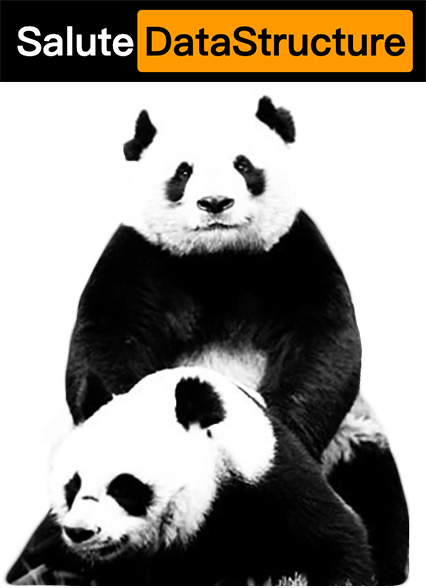
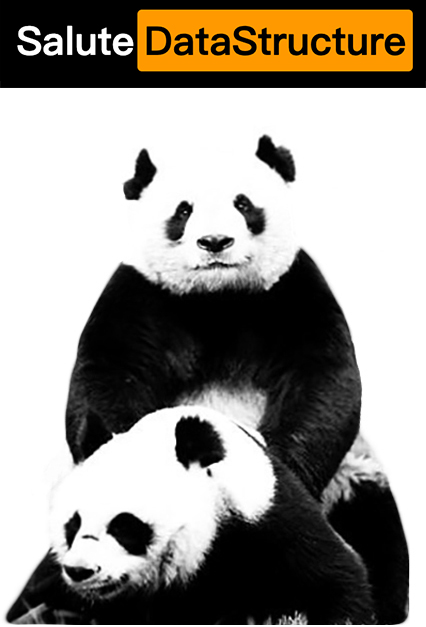
init

diff --git a/docs/index.html b/docs/index.html
@@ -2,11 +2,11 @@
 <html lang="en">
 <head>
   <meta charset="UTF-8">
-  <title>Salute_DeepLearning</title>
+  <title>Salute_DataStructure</title>
   <meta http-equiv="X-UA-Compatible" content="IE=edge,chrome=1" />
   <meta name="description" content="Description">
   <meta name="viewport" content="width=device-width, initial-scale=1.0, minimum-scale=1.0">
-  <link rel="icon" href="https://raw.githubusercontent.com/sanmaomashi/Salute_DeepLearning/main/img/0.jpg" sizes="16x16">
+  <link rel="icon" href="https://raw.githubusercontent.com/sanmaomashi/Salute_DataStructure/main/img/0.jpg" sizes="16x16">
   <link rel="stylesheet" href="//cdn.jsdelivr.net/npm/docsify@4.13.0/lib/themes/vue.css">
   <!--  导航栏css  -->
   <link rel="stylesheet" href="https://unpkg.com/docsify-toc@1.0.0/dist/toc.css">
@@ -18,8 +18,8 @@
   <div id="app">Loading...</div>
   <script>
     window.$docsify = {
-      name: 'Salute_DeepLearning',
-      repo: 'https://github.com/sanmaomashi/Salute_DeepLearning',
+      name: 'Salute_DataStructure',
+      repo: 'https://github.com/sanmaomashi/Salute_DataStructure',
       // 自定义侧边栏
       loadSidebar: true,
       subMaxLevel: 3,

diff --git a/README.md b/README.md
@@ -1,9 +1,9 @@
 <div align="center">
-  <a href="https://github.com/sanmaomashi/Salute_DL">
-    <img src="https://raw.githubusercontent.com/sanmaomashi/Salute_DeepLearning/main/img/1.jpg" height="400">
+  <a href="https://github.com/sanmaomashi/Salute_DataStructure">
+    <img src="https://raw.githubusercontent.com/sanmaomashi/Salute_DataStructure/main/img/1.jpg" height="400">
   </a>
-  <h1>DeepLearning - Beginner Runaway | 🚴♂</h1>
-  <img src="https://img.shields.io/github/repo-size/sanmaomashi/Salute_DeepLearning.svg?label=Repo%20size&style=flat-square" height="20">
+  <h1>DataStructure - Beginner Runaway | 🚴♂</h1>
+  <img src="https://img.shields.io/github/repo-size/sanmaomashi/Salute_DataStructure.svg?label=Repo%20size&style=flat-square" height="20">
   <img src="https://img.shields.io/badge/License-Apache%202.0-purple" data-origin="https://img.shields.io/badge/License-Apache%202.0-blue" alt="">
 </div>
 
@@ -12,7 +12,7 @@
 
 ## 简介
 
-Deep Learning 从入门到跑路
+数据结构 从入门到跑路
 
 
 
@@ -28,11 +28,11 @@ Deep Learning 从入门到跑路
 
 ## 在线阅读
 
-- https://sanmaomashi.github.io/Salute_DeepLearning/
+- https://sanmaomashi.github.io/Salute_DataStructure/
 
 
 
 ## License
 
-Licensed under the [Apache-2.0](http://choosealicense.com/licenses/apache/) © Salute_DeepLearning
+Licensed under the [Apache-2.0](http://choosealicense.com/licenses/apache/) © Salute_DataStructure
 

diff --git a/docs/_coverpage.md b/docs/_coverpage.md
@@ -1,12 +1,12 @@
-<img src="https://raw.githubusercontent.com/sanmaomashi/Salute_DeepLearning/main/img/1.jpg" width = "250" alt="Salute_DeepLearning" align=center />
+<img src="https://raw.githubusercontent.com/sanmaomashi/Salute_DataStructure/main/img/1.jpg" width = "250" alt="Salute_DataStructure" align=center />
 
-<h1><B>Deep Learning - 从入门到跑路 | 🚴♂ </B></h1>
+<h1><B>Databases - 从入门到跑路 | 🚴♂ </B></h1>
 
-<img src="https://img.shields.io/github/repo-size/sanmaomashi/Salute_DeepLearning.svg?label=Repo%20size&style=flat-square" height="20">
+<img src="https://img.shields.io/github/repo-size/sanmaomashi/Salute_DataStructure.svg?label=Repo%20size&style=flat-square" height="20">
 <img src="https://img.shields.io/badge/License-Apache%202.0-purple" data-origin="https://img.shields.io/badge/License-Apache%202.0-blue" alt="">
 
 
-[GitHub](https://github.com/sanmaomashi/Salute_DeepLearning)
+[GitHub](https://github.com/sanmaomashi/Salute_DataStructure)
 [开始阅读](/README.md)
 
 

diff --git a/docs/README.md b/docs/README.md
@@ -2,5 +2,5 @@
 
 ## 介绍
 
-?> Deep Learning 学习笔记
+?> DataStructure 学习笔记
 

diff --git a/docs/_sidebar.md b/docs/_sidebar.md
@@ -1,3 +1,1 @@
 * [首页](README.md)
-
-  
